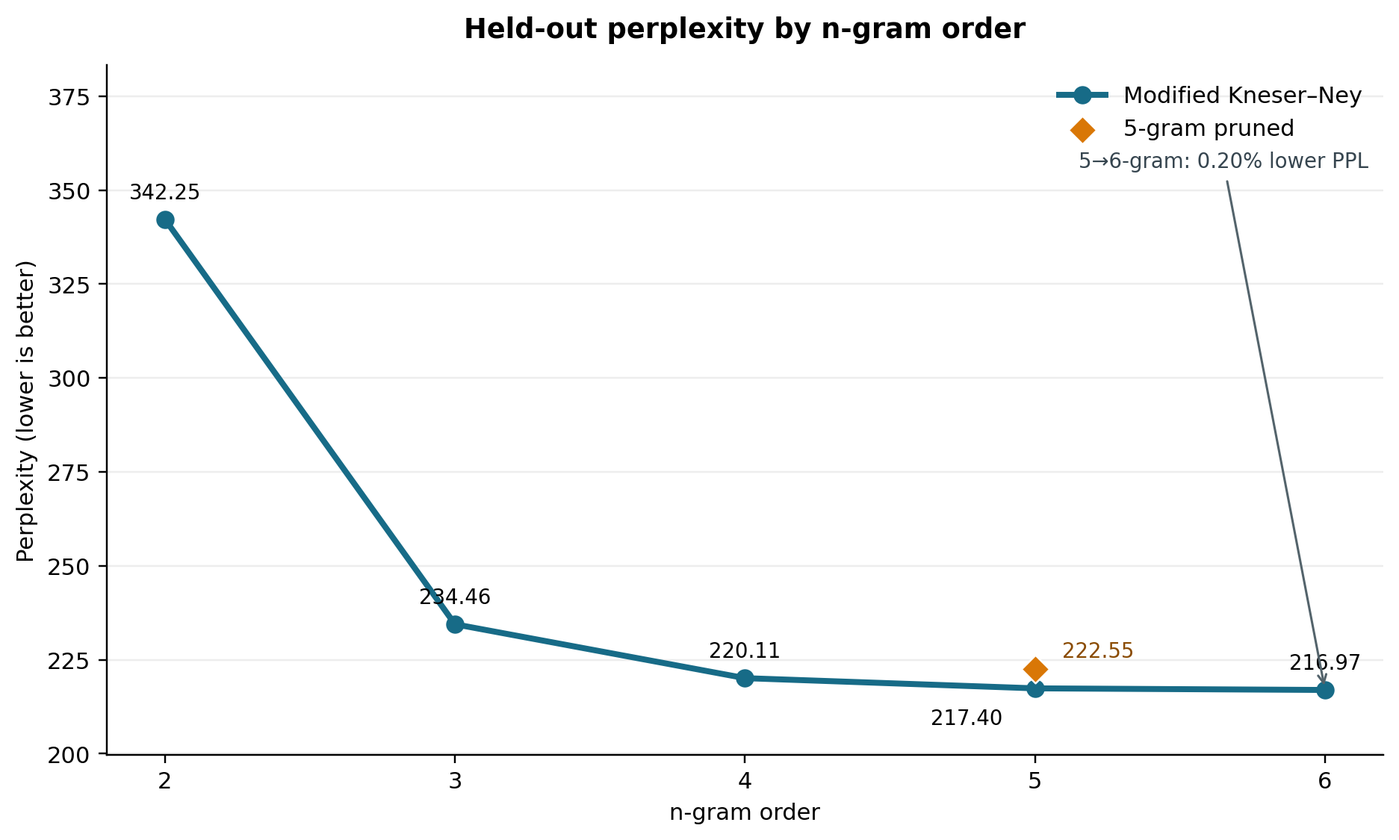
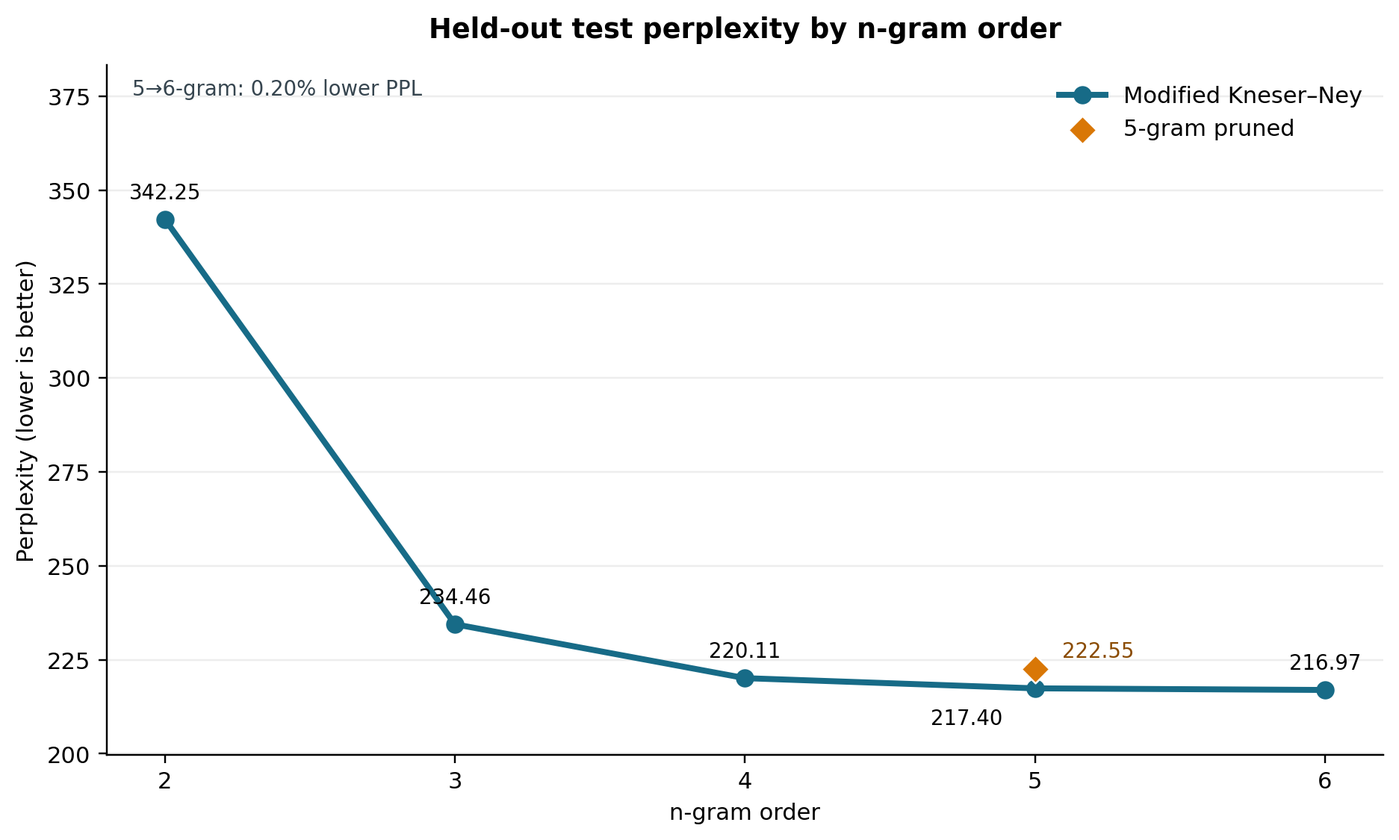
Revise n-gram report around order gains and pruning tradeoffs

Changed region(s): [[0.3097, 0.0, 0.7742, 0.0622], [0.0929, 0.0933, 0.3097, 0.1244], [0.7742, 0.1867, 0.96, 0.2178]]

diff --git a/plot_ngram_results.py b/plot_ngram_results.py
@@ -73,16 +73,16 @@ def main() -> int:
                   textcoords="offset points", fontsize=9, color="#8A4B00")
     adjacent_delta = (perplexities[-2] - perplexities[-1]) / perplexities[-2] * 100
     adjacent_change = "lower" if adjacent_delta >= 0 else "higher"
-    annotation_y = max(perplexities + [prune_ppl]) * 1.04
-    axis.annotate(
+    axis.text(
+        0.02, 0.98,
         f"{orders[-2]}→{orders[-1]}-gram: {abs(adjacent_delta):.2f}% {adjacent_change} PPL",
-        xy=(orders[-1], perplexities[-1]),
-        xytext=(orders[-2] + 0.15, annotation_y),
-        arrowprops={"arrowstyle": "->", "color": "#53636B", "lw": 1},
+        transform=axis.transAxes,
+        ha="left",
+        va="top",
         fontsize=9,
         color="#36454F",
     )
-    axis.set_title("Held-out perplexity by n-gram order", pad=12)
+    axis.set_title("Held-out test perplexity by n-gram order", pad=12)
     axis.set_xlabel("n-gram order")
     axis.set_ylabel("Perplexity (lower is better)")
     plotted_ppl = perplexities + [prune_ppl]
@@ -115,41 +115,50 @@ def main() -> int:
     figure.savefig(args.output_dir / "resource_comparison_bars.png", dpi=220, bbox_inches="tight")
     plt.close(figure)
 
-    # Pie charts: actual surface-token split and held-out vocabulary coverage.
+    # Horizontal stacked bars show the corpus split and held-out coverage.
     training_tokens = int(metadata["training_tokens"])
     test_tokens = int(metadata["test_tokens"])
     test_oov = int(rows[0]["test_oov_mapped_tokens"])
     if test_oov > test_tokens:
         raise ValueError("Test OOV token count exceeds the test token total")
-    figure, (split_axis, coverage_axis) = plt.subplots(1, 2, figsize=(11.2, 5.1), constrained_layout=True)
-    split_axis.pie(
-        [training_tokens, test_tokens],
-        labels=["Train", "Test"],
-        autopct="%1.1f%%",
-        startangle=90,
-        colors=[BLUE, ORANGE],
-        explode=(0, 0.035),
-        textprops={"fontsize": 10},
-        wedgeprops={"edgecolor": "white", "linewidth": 1.3},
-    )
-    split_axis.set_title(f"Surface-token split\n{training_tokens:,} train · {test_tokens:,} test", fontweight="bold")
-    coverage_axis.pie(
-        [test_tokens - test_oov, test_oov],
-        labels=["In vocabulary", "OOV → UNK"],
-        autopct="%1.2f%%",
-        startangle=90,
-        colors=[GREEN, GRAY],
-        explode=(0, 0.06),
-        pctdistance=0.72,
-        textprops={"fontsize": 9},
-        wedgeprops={"edgecolor": "white", "linewidth": 1.3},
-    )
-    coverage_axis.set_title(f"Held-out vocabulary coverage\n{test_tokens:,} surface tokens", fontweight="bold")
-    figure.suptitle("Corpus and evaluation token distribution", fontweight="bold", fontsize=13)
-    figure.savefig(args.output_dir / "token_distribution_pies.png", dpi=220, bbox_inches="tight")
+    train_percent = 100 * training_tokens / (training_tokens + test_tokens)
+    test_percent = 100 - train_percent
+    oov_percent = 100 * test_oov / test_tokens
+    covered_percent = 100 - oov_percent
+    figure, (split_axis, coverage_axis) = plt.subplots(1, 2, figsize=(11.5, 3.8), constrained_layout=True)
+    split_axis.barh(0, train_percent, color=BLUE, height=0.52)
+    split_axis.barh(0, test_percent, left=train_percent, color=ORANGE, height=0.52)
+    split_axis.text(train_percent / 2, 0, f"Train  {training_tokens:,}\n{train_percent:.1f}%",
+                    color="white", ha="center", va="center", fontweight="bold", fontsize=10)
+    split_axis.text(train_percent + test_percent / 2, 0, f"Test  {test_tokens:,}\n{test_percent:.1f}%",
+                    color="white", ha="center", va="center", fontweight="bold", fontsize=9)
+    split_axis.set_title("Article-level train / test split", fontweight="bold")
+    split_axis.set_xlabel("Share of surface-token events (%)")
+    split_axis.set_yticks([])
+    split_axis.set_xlim(0, 100)
+    split_axis.set_xticks([0, 25, 50, 75, 100])
+    split_axis.grid(axis="x", alpha=0.22)
+    split_axis.set_axisbelow(True)
+
+    coverage_axis.barh(0, covered_percent, color=GREEN, height=0.52)
+    coverage_axis.barh(0, oov_percent, left=covered_percent, color=GRAY, height=0.52)
+    coverage_axis.text(covered_percent / 2, 0, f"In vocabulary  {test_tokens - test_oov:,}\n{covered_percent:.2f}%",
+                       color="white", ha="center", va="center", fontweight="bold", fontsize=10)
+    coverage_axis.annotate(f"OOV → UNK  {test_oov:,} ({oov_percent:.2f}%)",
+                           xy=(covered_percent + oov_percent / 2, 0), xytext=(85, 0.42), ha="center", va="bottom", fontsize=9,
+                           arrowprops={"arrowstyle": "-", "color": "#53636B", "lw": 0.9})
+    coverage_axis.set_title("Held-out vocabulary coverage", fontweight="bold")
+    coverage_axis.set_xlabel("Share of test-token events (%)")
+    coverage_axis.set_yticks([])
+    coverage_axis.set_xlim(0, 106)
+    coverage_axis.set_xticks([0, 25, 50, 75, 100])
+    coverage_axis.grid(axis="x", alpha=0.22)
+    coverage_axis.set_axisbelow(True)
+    figure.suptitle("Corpus split and test vocabulary coverage", fontweight="bold", fontsize=13)
+    figure.savefig(args.output_dir / "corpus_token_coverage.png", dpi=220, bbox_inches="tight")
     plt.close(figure)
 
-    for name in ("perplexity_by_order.png", "resource_comparison_bars.png", "token_distribution_pies.png"):
+    for name in ("perplexity_by_order.png", "resource_comparison_bars.png", "corpus_token_coverage.png"):
         output = args.output_dir / name
         if not output.is_file() or output.stat().st_size == 0:
             raise RuntimeError(f"Chart was not written: {output}")

diff --git a/作业3实验报告.md b/作业3实验报告.md
@@ -1,72 +1,106 @@
-# 《人民日报》1998 年 1—6 月带音语料上的词级 n-gram 实验
+# 《人民日报》词级 n-gram 语言模型的阶数收益与剪枝权衡
 
 ## 摘要
 
-本实验使用课程提供的《人民日报》1998 年 1—6 月带音语料，保留源数据的分词边界和标点，移除读音与版式标注，并审计编码错误、冲突记录和重复内容。清理后按文章进行去重和 80:20 切分，再用 KenLM Modified Kneser–Ney 训练 2–6-gram 以及一个剪枝 5-gram。训练集词表、文章级切分、测试集评分和复核脚本均随结果归档。
+本实验考察词级 n-gram 阶数和高阶计数剪枝对《人民日报》语言模型预测效果及模型成本的影响。使用课程提供的 1998 年 1—6 月带音语料，保留空格分词和标点，移除读音与版式标记，并按文章去重后以固定随机种子划分训练集和测试集。所有模型采用 KenLM Modified Kneser–Ney 平滑，在同一训练语料、词表和文章级测试集上训练 2–6-gram，并额外训练一个剪枝 5-gram。测试困惑度从 2-gram 的 342.25282 降至 6-gram 的 216.96751，但 5 阶升至 6 阶仅降低 0.20%，ARPA 文件增大 47.76%。将 5-gram 中计数为 1 的 4-gram 与 5-gram 剪除后，文件缩小 69.76%，困惑度上升 2.37%。测试事件的匹配阶数分布与训练词频—左邻类型对照进一步表明，长匹配覆盖率和词的左邻多样性共同刻画了模型可利用的局部信息。一次固定前缀续写出现主题跳转和不完整搭配。
 
-在固定的文章级测试集上，测试困惑度由 2-gram 的 342.25282 降至 6-gram 的 216.96751。5-gram 到 6-gram 的相对下降为 0.20%，但 ARPA 文件由 636.86 MiB 增至 941.05 MiB。剪枝 5-gram 将文件缩小 69.76%，测试 PPL 相对完整 5-gram 上升 2.37%。这些数值仅对应本次六个月教师语料和固定切分；此前 PFR 数据使用了不同的文本表示和来源，本报告不将两次 PPL 作为同条件的前后改进比较。
+## 1. 引言
 
-## 语料与清洗
+词级 n-gram 语言模型以有限长度的前文估计下一个词的条件概率。随着阶数增加，模型可以区分更具体的局部上下文，但高阶计数更稀疏；平滑方法通过折扣已观察到的计数并把部分概率质量分配给低阶分布，以处理未见序列。Kneser–Ney 平滑的关键思想之一，是让回退分布反映词能够出现在多少种不同前文之后，而不只反映其原始频数[1]。后续对多种平滑方法的实证研究也表明，平滑效果会随数据规模、语料和 n-gram 阶数而变化[2]。KenLM 的 lmplz 使用 Modified Kneser–Ney 估计模型；其估计过程和插值实现见 Heafield 等人的工作[3]。
 
[1 lines of base64/hex data omitted]
+本实验在同一篇章级切分上回答两个问题：提高模型阶数时，测试困惑度的边际变化与存储、训练成本如何变化；对高阶计数进行剪枝时，模型成本和预测效果如何权衡。为解释观察到的变化，进一步统计测试事件上 KenLM 返回的最高匹配阶数，并对比训练词频与不同左邻类型数。固定前缀续写作为补充案例，展示该词级模型的局部生成现象。
 
-处理使用逐行严格 GB18030 解码。五条记录含一个非法字节 `AD`，分别来自三篇文章：`19980323-09-005`、`19980430-03-005` 和 `19980507-04-007`。未用替换字符修补数据，而是记录成员内行号、行起始字节偏移、错误字节偏移、记录编号和解码原因，并排除对应整篇文章。另一个文章 `19980127-09-001` 中，记录编号 `19980127-09-001-032` 对应两个不同正文；该文章也整体排除。总计排除 4 篇文章。逐条错误和冲突位置保存在实验元数据中，具体成员及错误偏移另列于 `data/SOURCE.md`。
+## 2. 语料与预处理
 
-| 清理项目 | 统计 |
-|---|---:|
-| 月文件 / 物理行 / 空白行 | 6 / 143,766 / 20,005 |
-| 严格解码后的记录行 | 123,756 |
-| 解码错误记录 / 涉及文章 | 5 / 3 |
-| 冲突记录编号 / 涉及文章 | 1 / 1 |
-| 合并排除文章 | 4 |
-| 移除读音标注 / `〓` 版式符号 | 95,087 / 10,587 |
-| 相同记录行 / 相同段落 / 完全重复文章移除数 | 6 / 228 / 46 |
-| 无记录编号的非空行 | 0 |
-| 最终文章数 / 记录数 | 18,581 / 123,386 |
-| 保留的词面 token 数 | 7,293,878 |
+数据为课程提供的《人民日报》1998 年 1—6 月带音语料，文本按空格标记词项，一部分词内嵌读音标注。程序采用严格 GB18030 解码，移除花括号读音和“〓”版式符号，保留原有词项顺序、分词边界及标点。重复记录、重复段落和全文相同的文章均去重；严格解码失败或记录编号与正文冲突的文章整体排除。
 
-读音花括号标注和 `〓` 版式符号被移除；词项顺序、原空格分词和标点保留。对同一文章内相同段落去重，再按清理后全部段落完全相同的签名删除重复文章。之后再按文章切分，避免同一文章进入训练和测试两侧。此次预处理没有遇到无编号标题或文件头行；代码仍单独统计和保存此类行，避免把它们当成语言模型记录。
+清理后语料含 18,581 篇文章、123,386 条记录和 7,293,878 个词面 token。按文章键随机打乱后逐篇分入训练集，直至训练记录数达到 80% 的目标；随机种子固定为 20260929。同一文章不会跨越训练集和测试集，切分结果如下。
 
-## 切分与训练设置
+**表 1. 训练集与测试集样本规模。**
 
-以日期、版次和文章编号组成文章键，随机种子固定为 `20260929`。清理去重后按记录数接近 80:20 切分：训练集 14,802 篇文章、98,722 条记录；测试集 3,779 篇文章、24,664 条记录。两侧文章编号不相交。训练集有 5,797,582 个词面 token，测试集有 1,496,296 个。
+| 数据划分 | 文章数 | 记录数 | 词面 token 数 |
+|---|---:|---:|---:|
+| 训练集 | 14,802 | 98,722 | 5,797,582 |
+| 测试集 | 3,779 | 24,664 | 1,496,296 |
 
-词表只从训练文本构建，保留训练频数至少为 2 的词，并加入 `__UNK_TOKEN__`，词表共 69,864 项。训练中 54,141 个低频 token 映射到 `__UNK_TOKEN__`；测试集中 29,585 个 OOV token 映射为该符号，占测试词面 token 的 1.98%。每个模型使用同一训练文本、词表和测试记录。测试评分按 KenLM 对每条记录计入句末概率，共计 1,520,960 个预测事件。
+词表只从训练集构建，保留训练频数至少为 2 的词，并加入一个未知词符号，词表共 69,864 项。训练集中 54,141 个低频词面 token 映射到该符号；测试集中有 29,585 个词面 token 不在训练词表中，占测试词面 token 的 1.98%，同样映射到未知词符号。每条记录独立作为模型输入序列，n-gram 不跨记录边界。
 
-训练器为 KenLM `lmplz`，内存排序上限为 2 GB，进程及其子进程限制在 4 个 CPU 核心。2、3、4、5、6 阶完整模型均以默认折扣正常完成，没有触发折扣回退。剪枝 5-gram 使用 `--prune 0 0 0 1 1`，即剪去计数为 1 的 4-gram 与 5-gram。训练秒数是各次 `lmplz` 训练进程的墙钟时间，不包含评分和文本续写。
+## 3. 方法
 
-## 模型结果
+### 3.1 Modified Kneser–Ney 估计
 
-| 模型 | 最高阶 n-gram 数量 | 训练时间（秒） | ARPA 大小（MiB） | 测试 PPL |
+对阶数为 n 的模型，目标词 wᵢ 的历史为 hᵢ = (wᵢ₋ₙ₊₁, …, wᵢ₋₁)，模型估计条件概率 P(wᵢ | hᵢ)。对于当前层级出现过的历史，该概率由折扣计数与低阶插值项组成：
+
+P(wᵢ|hᵢ) = max(c(hᵢ,wᵢ) − D(c(hᵢ,wᵢ)), 0) / c(hᵢ) + λ(hᵢ) P_lower(wᵢ|hᵢ′)
+
+其中 c(hᵢ,wᵢ) 和 c(hᵢ) 分别是当前层级的 n-gram 计数与历史计数；最高阶使用训练频数，Modified Kneser–Ney 的低阶递归则使用续接计数。折扣 D 按计数类别取值；λ(hᵢ) 将高阶分布移出的概率质量分配给低一阶分布，hᵢ′ 表示去掉最左侧历史词后的上下文。unigram 基分布按续接计数 N₁₊(*,w) 归一化，其中 N₁₊(*,w) 是词 w 的不同左邻类型数。因此，一个频繁但总跟在少数左邻之后出现的词，和频数相似但出现在许多不同左邻之后的词，会得到不同的低阶平滑依据[1,3]。未见历史直接使用低阶分布。本实验使用 KenLM 的 Modified Kneser–Ney 估计及其插值，不单独调整折扣参数。
+
+### 3.2 阶数、剪枝与续写
+
+剪枝通过移除低频高阶 n-gram 减少模型条目，使缺少相应长序列时的评分更多依赖低阶回退与插值。本实验保留 unigram 至 trigram，并单独考察对 4-gram、5-gram 单例的剪除影响。最高匹配阶数描述一个测试预测事件在模型中直接命中的最长 n-gram，用于观察可用局部上下文的长度。
+
+## 4. 实验设置
+
+### 4.1 模型与资源指标
+
+比较模型包括最高阶数为 2、3、4、5、6 的完整模型，以及一个剪枝 5-gram。各模型使用相同训练文本和训练词表。剪枝 5-gram 使用阈值 0、0、0、1、1：不剪低于 4 阶的计数，并剪除计数为 1 的 4-gram 和 5-gram；该阈值语义与 KenLM lmplz 的定义一致[4]。比较范围由研究问题预先限定为阶数和该剪枝设置，不在测试集上调节其他超参数。
+
+训练耗时记录 lmplz 训练进程的单次墙钟时间，排序内存上限为 2 GB，进程限制为 4 个 CPU 核心。模型文件大小以 ARPA 文件字节数换算为 MiB，作为模型磁盘存储成本指标。每个模型仅训练一次。
+
+### 4.2 评价指标与查询统计
+
+所有模型使用 KenLM 对相同测试记录评分，每条记录计入一个句末事件。困惑度按全部词面 token 和句末事件的平均负对数概率计算：
+
+PPL = 10^[−(1/N) Σᵢ₌₁ᴺ log₁₀ P(wᵢ|hᵢ)]，N = 1,520,960。
+
+其中 N 包含 1,496,296 个测试词面 token 事件和 24,664 个句末事件；句首标记只提供上下文，不计作预测事件。每个模型使用同一个测试事件集合。
+
+最高匹配阶数取自 KenLM full_scores 接口返回的长度，并包含当前预测目标词；事件分母包含所有词面 token 和句末事件，句首只作为上下文。该统计与 PPL 相互补充：前者描述命中长度，后者汇总事件概率。
+
+### 4.3 生成案例设置
+
+补充生成使用固定前缀“在阳光明媚的五月，我们学校胜利召开了……”，按训练词表进行最长词面匹配切分。每个模型分别生成一次贪心续写和一次采样续写；贪心对应 top-k=1，采样温度为 0.8、top-k=10。随机种子以 314159 为基准并按模型阶数偏移；至少生成 6 个词后才允许结束，最多生成 24 个词，生成时屏蔽未知词符号。
+
+## 5. 实验结果
+
+### 5.1 阶数、困惑度与资源成本
+
+表 2 显示，在本次固定测试集上，完整模型的困惑度随阶数增加而降低；剪枝 5-gram 的高阶条目数和文件大小则显著低于完整 5-gram。
+
+**表 2. 各模型的最高阶条目数、单次训练时间、ARPA 文件大小与测试困惑度。**
+
+| 模型 | 最高阶条目数 | 训练时间（秒） | ARPA 大小（MiB） | 测试 PPL |
 |---|---:|---:|---:|---:|
 | 2-gram | 1,469,468 | 2.792 | 37.05 | 342.25282 |
 | 3-gram | 3,700,803 | 5.007 | 160.76 | 234.45598 |
 | 4-gram | 4,846,621 | 8.455 | 369.54 | 220.11313 |
 | 5-gram | 5,196,541 | 12.288 | 636.86 | 217.39763 |
 | 6-gram | 5,273,023 | 16.360 | 941.05 | 216.96751 |
-| 剪枝 5-gram | 4-gram 351,595；5-gram 199,348 | 6.544 | 192.56 | 222.55348 |
+| 剪枝 5-gram | 4-gram：351,595；5-gram：199,348 | 6.544 | 192.56 | 222.55348 |
 
-![2–6-gram 测试集困惑度折线图](./results_1-6/perplexity_by_order.png)
+图 1 展示测试困惑度随阶数的变化。2-gram 至 3-gram 的下降最明显；之后的改善逐步收窄。5-gram 到 6-gram 的 PPL 从 217.39763 降至 216.96751，绝对差为 0.43012，相对下降约 0.20%。
 
-图 1：完整 2–6-gram 模型及剪枝 5-gram 在固定文章级测试集上的困惑度。低阶模型的下降较明显，5 阶到 6 阶的相对 PPL 下降约 0.20%。
+![2–6-gram 测试集困惑度与剪枝 5-gram 对照](./results_1-6/perplexity_by_order.png)
 
-![训练耗时和 ARPA 文件大小柱状图](./results_1-6/resource_comparison_bars.png)
+图 1：固定文章级测试集上的困惑度。蓝线为完整 Modified Kneser–Ney 模型，橙色菱形为剪枝 5-gram；纵轴显示局部范围以呈现高阶模型间的细微差异。
 
-图 2：每个模型一次训练的耗时和 ARPA 文件大小，分别用秒和 MiB 表示。
+图 2 显示，每次训练的墙钟时间和 ARPA 文件大小都随完整模型阶数上升。由 5 阶升至 6 阶时，文件增加 47.76% 至 941.05 MiB，单次训练时间由 12.288 秒增加至 16.360 秒。剪枝 5-gram 相对完整 5-gram 将文件缩小 69.76%，训练时间缩短约 46.7%，同时测试 PPL 增加 2.37%。
 
-![训练测试 token 切分与测试集词表覆盖饼图](./results_1-6/token_distribution_pies.png)
+![训练时间和 ARPA 模型大小](./results_1-6/resource_comparison_bars.png)
 
-图 3：训练/测试词面 token 比例及测试词表覆盖情况。OOV 部分映射到 `__UNK_TOKEN__`。
+图 2：各模型单次训练时间和 ARPA 文件大小。两个面板分别使用秒和 MiB 为单位。
 
-从 2-gram 升到 3-gram 后，测试 PPL 大幅下降；其后仍逐阶下降，但高阶模型的边际收益变小。从 5 阶升到 6 阶，PPL 由 217.39763 降至 216.96751，绝对变化为 0.43012、相对下降约 0.20%，而 ARPA 大小增加约 47.76%。这说明在当前测试集上 6-gram 的预测指标略好，但提升幅度远低于其额外文件成本。
+图 3 给出训练、测试 token 划分及测试词表覆盖率。测试集 OOV 比例为 1.98%，其余测试词面 token 均可直接由训练词表表示。
 
-剪枝 5-gram 的 ARPA 从 636.86 MiB 降至 192.56 MiB，缩小约 69.76%，本次训练也较快；相对完整 5-gram，PPL 上升约 2.37%。剪枝在这里换取了体积和训练耗时下降，伴随测试预测质量损失。
+![训练测试 token 划分及测试词表覆盖率](./results_1-6/corpus_token_coverage.png)
 
-## 固定测试集上的匹配阶数
+图 3：左图以词面 token 数表示训练与测试划分，右图表示测试集中的词表内 token 与映射到未知词符号的 OOV token。
 
-为观察高阶模型在固定测试集上实际能使用多长的已见 n-gram，上下文长度直接读取 KenLM `Model.full_scores(..., bos=True, eos=True)` 返回的匹配长度字段；KenLM 示例也用该字段展示每个预测事件匹配到的 n-gram。该长度包含当前被预测的词，因此 5-gram 的返回长度为 5 表示“4 个历史词加当前词”。它只表示查询所用的已见 n-gram 阶数，不能视作模型全部有效依赖范围：Modified Kneser–Ney 的折扣、插值与回退仍共同影响最终分数。[KenLM Python 示例](https://github.com/kpu/kenlm/blob/master/python/example.py)
+### 5.2 测试事件上的匹配阶数
 
-评分使用与 PPL 完全相同的测试文本和句边界：24,664 条记录中有 1,496,296 个词面预测事件，每条记录再计一个 EOS，共 1,520,960 个事件；BOS 仅作为初始上下文，不单独计分。测试集原始 OOV 词面共 29,585 个，预处理时已映射为词表中的 `__UNK_TOKEN__`，所以 KenLM 的运行时 OOV 标志为 0。下表百分比以包含 EOS 的 1,520,960 个事件为分母；EOS 分阶计数也单独保存在可复核 CSV 中。
+为观察模型在固定测试集上查询到的最高已见 n-gram 阶数，统计 KenLM 的 full_scores 接口返回的匹配长度。KenLM 官方 Python 示例使用该字段显示匹配到的 n-gram；此处长度包含当前被预测的词，例如 5-gram 匹配表示“4 个历史词加目标词”[5]。事件比例以 1,520,960 个词面及句末预测事件为分母，句末事件纳入统计，句首只作为上下文。表 3 和图 4 汇总 5-gram、6-gram 与剪枝 5-gram 的分布。
+
+**表 3. 固定测试集上各模型最高匹配阶数所占的预测事件比例。**
 
 | 模型 | 匹配 1-gram | 匹配 2-gram | 匹配 3-gram | 匹配 4-gram | 匹配 5-gram | 匹配 6-gram |
 |---|---:|---:|---:|---:|---:|---:|
@@ -74,19 +108,19 @@
 | 6-gram | 17.203% | 39.196% | 25.131% | 9.771% | 3.736% | 4.963% |
 | 剪枝 5-gram | 17.203% | 39.196% | 31.563% | 7.058% | 4.980% | — |
 
-![固定测试集最长匹配 n-gram 阶数分布](./results_1-6/longest_match_distribution.png)
+![固定测试集的最高匹配 n-gram 阶数分布](./results_1-6/longest_match_distribution.png)
 
-图 4：同一固定测试集上的查询匹配阶数分布。每个匹配长度都包含当前预测词，事件分母含 EOS。
+图 4：固定测试集上 KenLM 返回的匹配阶数比例。每个匹配长度包含预测目标词，事件分母包含句末事件。
 
-完整 5-gram 中有 8.699% 的事件命中 5-gram；在 6-gram 模型里，这部分进一步分为 3.736% 命中 5-gram 和 4.963% 命中 6-gram。两者合计仍为 8.699%。剪枝 5-gram 将一部分较长匹配回退至 3-gram：匹配 4/5-gram 的比例从完整模型的 18.470% 降到 12.038%，匹配 3-gram 的比例相应增加约 6.431 个百分点。这描述的是表中匹配长度的变化，不能单独推导概率或困惑度变化；本实验中的剪枝 PPL 与体积差异仍应结合前表一起看。
+完整 5-gram 中有 8.699% 的事件匹配到 5-gram；在 6-gram 中，这些事件分为匹配 5-gram 的 3.736% 和匹配 6-gram 的 4.963%，两者之和仍约为 8.699%。这表明 6-gram 在该测试集上额外延长了部分可用上下文，匹配阶数最高的事件占全部事件的 8.699%。剪枝后，匹配 4-gram 或 5-gram 的事件比例从完整 5-gram 的 18.470% 降至 12.038%，而匹配 3-gram 的比例增加 6.431 个百分点。该分布呈现各阶 n-gram 的直接匹配范围；PPL 则汇总折扣、插值与回退后每个事件的概率，二者共同说明阶数与剪枝的影响。
 
-详细事件数、各阶 EOS 数、映射 OOV 数、ARPA 哈希与重新计算的 PPL 位于 `results_1-6/diagnostics/longest_match_counts.csv` 和 `results_1-6/diagnostics/diagnostics_summary.json`。重新汇总的 PPL 与实验元数据最大相差 0.00000152，事件数及模型文件 SHA-256 均通过核对。
+### 5.3 原始词频与左邻类型
 
-## 训练词频与不同左邻
+为观察原始频次和 Kneser–Ney 续接计数所关注信息的差别，对训练集低频词映射前的 5,797,582 个词面 token 统计词频及紧邻左词类型数。每条记录独立统计，并把记录起始标记作为词首 token 的一个左邻类型。表 4 中的样例限于训练频数至少为 100 且仅由 Unicode 字母构成的词：第一组按“频数/不同左邻数”排序，第二组按左邻类型数排序并排除第一组。
 
-为检查 KN 续接计数与原始词频的区别，统计仅使用文章级切分中的训练文章，共 5,797,582 个清洗后 token。统计发生在低频词映射成 `__UNK_TOKEN__` 之前，保留原有空白分词；每条记录作为独立序列，记录开头的 `⟨s⟩` 也算一个左邻类型，标点仍按语料 token 参与频数和左邻统计。对报告样例再限定为由 Unicode 字母构成且训练频数至少为 100 的 token。第一组按“频数/不同左邻数”从高到低取前五个；第二组按不同左邻数从高到低选取且排除第一组。为控制正文篇幅，下表是两组筛选结果的节选：第一组列出前 3 个，第二组列出前 2 个；完整的每组前 5 个均保存在 `results_1-6/diagnostics/word_frequency_left_contexts.csv` 中。这样得到的是语料计数的可读对照，不是熵值或最终 KN 概率。
+**表 4. 原始训练词频与不同左邻类型数的样例。**
 
-| 语料 token | 训练频数 | 不同左邻类型数 | 观察到的左邻 / 说明 |
+| 词 | 训练频数 | 不同左邻类型数 | 观察到的左邻或说明 |
 |---|---:|---:|---|
 | 镕基 | 651 | 1 | 朱 |
 | 岚清 | 642 | 1 | 李 |
@@ -94,32 +128,42 @@
 | 的 | 284,210 | 28,415 | 多种左邻 |
 | 和 | 57,971 | 11,560 | 多种左邻 |
 
-前三个 token 在本训练切分中出现次数较多，但各自都只观察到一个紧邻左词；“的”“和”的频次和左邻类型数则同时较高。以 `镕基` 为例，词频 651 次并不等于有 651 种续接上下文，原始频数与不同左邻计数回答的是两个不同问题。KN 的低阶续接分布会利用左邻类型计数区分这两种情形，但 Modified KN 的折扣和插值仍参与最终概率估计；因此不能把表中的类型数直接当作概率，更不能当作熵。
+前三个词在训练文本中较常出现，但各自只接在一种左邻之后；“的”和“和”则同时具有较高频次和大量不同左邻。以“镕基”为例，651 次出现对应一种续接环境。该语料计数展示了词频与左邻多样性是不同统计量，与 Modified Kneser–Ney 低阶分布利用续接类型的机制相符；表中左邻数刻画续接类型多样性，而非概率值。
 
-完整逐 token 频数与不同左邻数保存在 `results_1-6/diagnostics/training_token_frequency_left_contexts.csv`；所选 token 的排序结果在 `word_frequency_left_contexts.csv`，对应的左邻词清单在 `selected_word_left_contexts.csv`。`analyze_ngram_diagnostics.py` 会先按文章索引复核清洗文本和既有训练/测试映射文件，再从现成 ARPA 读取匹配长度并重建这些统计，无需重新训练模型。
+### 5.4 固定前缀续写
 
-## 指定前缀续写
-
-统一提示前缀为：
-
-```text
-在阳光明媚的五月，我们学校胜利召开了……
-```
-
-使用训练词表的最长匹配切分为 `在 / 阳光 / 明媚 / 的 / 五月 / ， / 我们 / 学校 / 胜利 / 召开 / 了 / ……`。每个模型均生成一次贪心续写和一次采样续写：贪心为 `top_k=1`；采样温度为 0.8、`top_k=10`。随机种子以 314159 为基数并按模型阶数固定偏移，最少生成 6 个 token 后才允许结束，最多 24 个 token，生成时屏蔽 `__UNK_TOKEN__`。
+**表 5. 完整 5-gram、完整 6-gram 与剪枝 5-gram 在固定前缀下的贪心和采样续写。**
 
 | 模型 | 贪心续写 | 采样续写 |
 |---|---|---|
-| 5-gram | `”，我的选择。` | `而最让人，其中，“我们的家园———地球上的宝贵的思想和行为，并为之` |
-| 6-gram | `”，我的家乡，节前工作又特忙，我节后再回去。”` | `”的“大欧洲”，“是在玩弄、游戏于法，法律、法规的制定的一系列` |
-| 剪枝 5-gram | `”，我的选择。` | `而最重要的是，这一活动，为促进了。` |
+| 5-gram | ”，我的选择。 | 而最让人，其中，“我们的家园———地球上的宝贵的思想和行为，并为之 |
+| 6-gram | ”，我的家乡，节前工作又特忙，我节后再回去。” | ”的“大欧洲”，“是在玩弄、游戏于法，法律、法规的制定的一系列 |
+| 剪枝 5-gram | ”，我的选择。 | 而最重要的是，这一活动，为促进了。 |
 
-这些续写会复用新闻语料中的局部搭配，但没有稳定延续校园活动主题，个别输出也出现不完整句子或搭配跳转。提示前缀的语体和语料领域不一致，因此该示例只能说明基于局部 n-gram 统计的续写现象，不代表新闻模型具备校园主题理解能力。
+该案例呈现出模型对新闻语料局部搭配和标点模式的复用，也显示在校园活动提示下，主题延续与短语完整性仍有改进空间。
 
-## 结果文件与复核
+## 6. 讨论
 
-CSV 和 JSON 保存训练参数、来源成员哈希、清理统计、逐条解码错误与冲突位置、文章划分 ID、词表映射、训练时间、PPL、ARPA 大小和 SHA-256。`validate_ngram_results.py` 会从清理语料和文章索引重建两侧数据，检查文章隔离、词表只能来自训练集、分词数据的一致性、无残留读音标注/`〓`/替换符，并可重新加载每个 ARPA 复算 PPL。复算 PPL 与训练时记录一致；完整检查写入 `results_1-6/validation.json`。
+在固定随机文章切分上，增加模型阶数持续降低了测试 PPL，但性能收益明显递减；5-gram 到 6-gram 的改善约为 0.20%，而 ARPA 大小增加近一半。因而在本实验语料与资源指标下，6-gram 的轻微 PPL 改善伴随较高的磁盘成本。匹配阶数结果为这一现象提供了上下文：六阶模型把一部分已有五阶匹配提升为六阶匹配，覆盖约 4.96% 的测试事件。结合 PPL 可见，延长局部匹配与每个事件最终概率的变化共同决定困惑度收益。
 
-大型 ARPA 文件每个约 37–941 MiB，不纳入版本控制；六个文件的字节数和 SHA-256 均已记录，运行脚本可重新生成。输入 RAR、可复用中间语料、训练/测试文本、文章索引、词表、日志、元数据和三张图均保存在仓库。运行方式和 KenLM Windows 构建说明分别见 `README.md` 与 `tools/BUILD_NOTES.md`。
+剪枝结果显示一种直接的容量—预测权衡：移除单例 4-gram 与 5-gram 后，ARPA 文件和单次训练时间下降，PPL 则上升。匹配阶数分布中，4/5-gram 事件减少、3-gram 事件增加，表明更多预测转由较短的可用序列支持；逐事件概率的变化汇总为整体 PPL 差异。训练词频和左邻类型案例也说明，原始频次与续接多样性提供互补信息；“镕基”等受新闻人物固定搭配影响的词与功能词具有不同的左邻分布。
+
+本实验的困惑度对应 1998 年《人民日报》文章随机切分、空格分词和训练词表设定。低频词面被映射为一个未知符号，不同未登录词因此共享同一表示。资源比较采用 ARPA 磁盘大小和单次训练墙钟时间，分别刻画模型文件存储与本次训练开销。
+
+## 7. 结论
+
+在课程提供的《人民日报》1998 年上半年词级语料和固定文章级测试集上，Modified Kneser–Ney 2–6-gram 的 PPL 随阶数增加而下降，但高阶收益递减：5 阶到 6 阶约降低 0.20%，ARPA 文件增加 47.76%。对 5-gram 中单例 4/5-gram 进行剪枝，可将 ARPA 文件缩小 69.76%，代价是测试 PPL 上升 2.37%。匹配阶数统计显示剪枝使部分测试事件转由较低阶匹配；词频—左邻观察则表明，词频与续接多样性描述了不同的上下文信息。
 
 本次实验的代码及相关说明可在该仓库中获取：[LLMandAppliedPractices-n-gram-programming](https://github.com/stq1234/LLMandAppliedPractices-n-gram-programming)。
+
+## 参考文献
+
+[1] Reinhard Kneser and Hermann Ney. 1995. [Improved Backing-Off for M-Gram Language Modeling](https://www-i6.informatik.rwth-aachen.de/publications/download/951/Kneser-ICASSP-1995.pdf). In *Proceedings of ICASSP 1995*, pages 181–184. IEEE.
+
+[2] Stanley F. Chen and Joshua Goodman. 1996. [An Empirical Study of Smoothing Techniques for Language Modeling](https://aclanthology.org/P96-1041/). In *Proceedings of the 34th Annual Meeting of the Association for Computational Linguistics*, pages 310–318. Association for Computational Linguistics. https://doi.org/10.3115/981863.981904.
+
+[3] Kenneth Heafield, Ivan Pouzyrevsky, Jonathan H. Clark, and Philipp Koehn. 2013. [Scalable Modified Kneser–Ney Language Model Estimation](https://aclanthology.org/P13-2121/). In *Proceedings of the 51st Annual Meeting of the Association for Computational Linguistics (Volume 2: Short Papers)*, pages 690–696. Association for Computational Linguistics.
+
+[4] Kenneth Heafield. 2011. [KenLM: Faster and Smaller Language Model Queries](https://aclanthology.org/W11-2123/). In *Proceedings of the Sixth Workshop on Statistical Machine Translation*, pages 187–197. Association for Computational Linguistics. See also the [KenLM lmplz source](https://github.com/kpu/kenlm/blob/master/lm/builder/lmplz_main.cc) for pruning-threshold semantics.
+
+[5] KenLM contributors. [Python example: scoring and n-gram matches](https://github.com/kpu/kenlm/blob/master/python/example.py). KenLM source code.

diff --git a/README.md b/README.md
@@ -9,9 +9,10 @@
 - `validate_ngram_results.py`：检查清洗文本、文章划分、训练词表和切分文件，并可重新加载 ARPA 模型复算 PPL。
 - `analyze_ngram_diagnostics.py`：不重训模型，按文章索引复核既有数据切分；用 KenLM `full_scores` 导出 5-gram、6-gram、剪枝 5-gram 的实际匹配阶数，并从原始训练 token 统计词频和不同左邻。
 - `run_ngram_diagnostics.ps1`：为 Windows 中文路径临时建立 ASCII 盘符映射，然后运行上述诊断脚本；仅需读取现成模型和数据。
-- `plot_ngram_results.py`：从 CSV 和元数据生成三张结果图。
+- `plot_ngram_results.py`：从 CSV 和元数据生成困惑度、资源成本、token 划分与词表覆盖三张结果图。
 - `results_1-6/diagnostics/`：匹配阶数事件数、全量训练 token 词频与左邻计数、样例 token 的左邻清单及带来源哈希的 JSON 汇总。
 - `results_1-6/longest_match_distribution.png`：固定测试集上 KenLM 返回匹配阶数的比例图。
+- `results_1-6/corpus_token_coverage.png`：训练/测试 token 划分和测试词表覆盖率图。
 - `results_1-6/experiment_results.csv`、`experiment_metadata.json`、`validation.json`：实际结果、完整数据清理/切分审计信息、复核结果。
 - `results_1-6/data/`：清洗后词面语料、文章级 split 索引、训练词表及 KenLM/评分输入文本。
 - `作业3实验报告.md`：本次实验报告。
